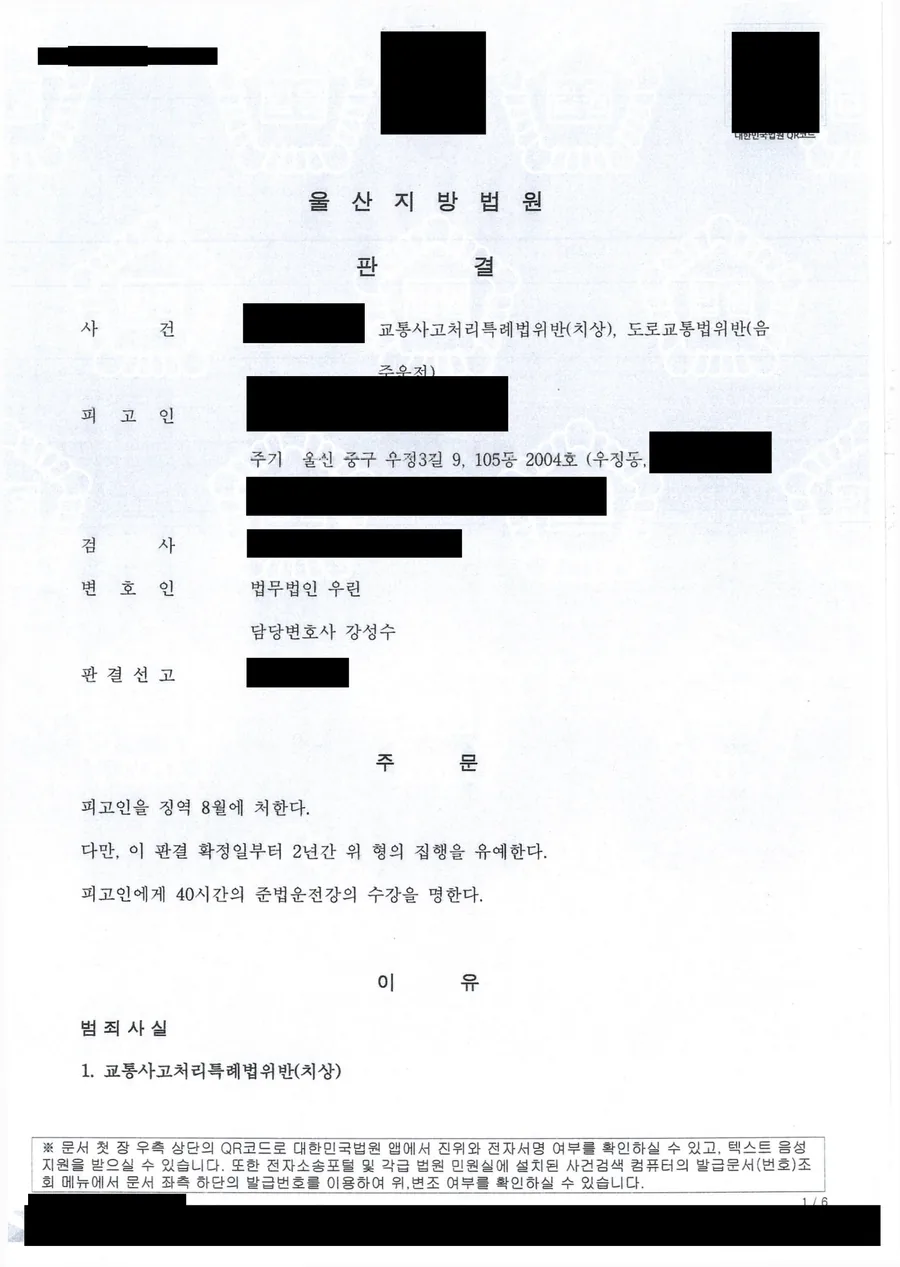
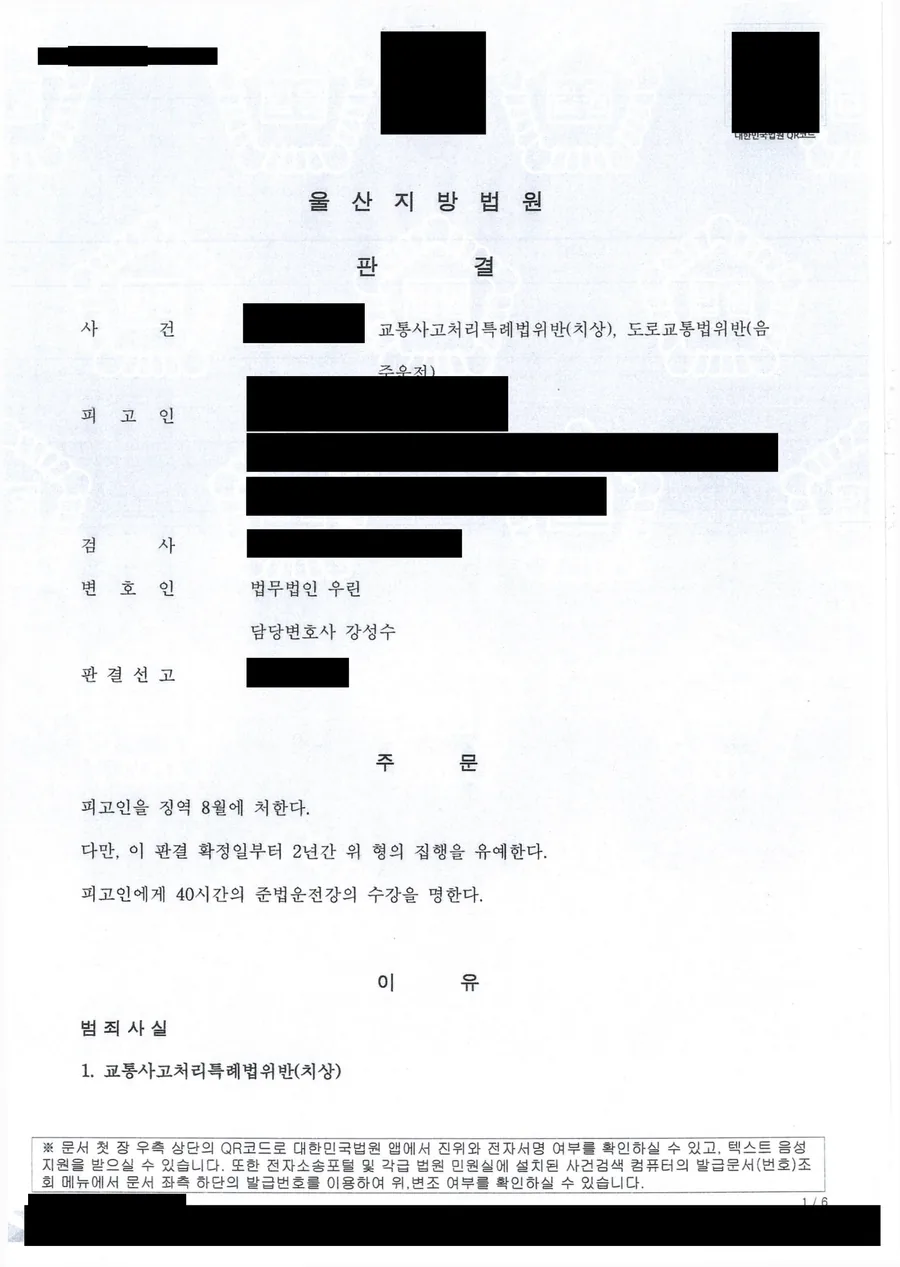
판결문 이미지 마스킹 보강, 원고 보강, 변호사 사진 최상단 배치
이미지
- 피고인 주거·등록기준지가 노출되던 문제 수정
  라벨만 있는 줄에서 오른쪽 값만 덮고 아랫줄로 이어가지 않던 버그
- OCR이 '주거'를 '주기'로 읽는 경우까지 라벨 인식
- 접수 도장의 수령일·이의기한 날짜를 오른쪽 여백까지 덮도록 확장

원고
- 소제목을 실제 검색 질문형으로 변경 (GEO)
- 각 소제목 첫 문장에 결론을 먼저 배치
- 교통사고처리 특례법 제3조, 도로교통법 제148조의2,
  특정경제범죄가중처벌법 제3조 등 근거 조문 명시
- 양형기준 유형·특별양형인자 설명 추가
- FAQ 항목 보강

레이아웃
- 본문 최상단에 변호사 사진, 그 아래 판결문 이미지 순으로 변경

Changed region(s): [[0.2489, 0.3386, 0.7467, 0.4002], [0.84, 0.3386, 0.8711, 0.3694]]

diff --git a/scripts/build-content.js b/scripts/build-content.js
@@ -624,8 +624,8 @@ function articlePage(item, type, all = []) {
         </section>
         <section class="article-wrap">
             <article class="article-body">
-                ${imageBlock}
                 ${consultImageBlock}
+                ${imageBlock}
                 ${lawyerBlock}
                 ${markdownToHtml(item.body)}
                 <p class="article-disclaimer">이 글은 일반적인 법률 정보 제공을 위한 자료이며, 개별 사건의 결과를 보장하지 않습니다. 구체적인 대응은 사실관계와 증거에 따라 달라질 수 있습니다.</p>

diff --git a/content/columns/dui-accident-injury-probation.md b/content/columns/dui-accident-injury-probation.md
@@ -1,155 +1,174 @@
 ---
 title: "울산음주운전변호사 음주 교통사고 16주 상해, 집행유예를 받은 사례"
-description: "혈중알코올농도 0.059%로 교차로에서 이륜차와 충돌해 피해자가 16주 진단을 받은 사건입니다. 구속 상태에서 시작했지만 피해 회복과 양형자료를 정리해 집행유예를 받은 성공사례입니다."
+description: "혈중알코올농도 0.059%로 교차로에서 이륜차와 충돌해 피해자가 16주 진단을 받은 사건입니다. 구속 상태에서 시작했지만 피해 회복과 양형자료를 정리해 징역 8월 집행유예 2년을 받은 성공사례입니다."
 category: "음주운전 칼럼"
 date: "2026-08-17"
 slug: "dui-accident-injury-probation"
 image: "assets/images/success/dui-accident-injury-probation-column.webp"
-imageAlt: "음주 교통사고 치상 집행유예 성공사례 판결문"
+imageAlt: "울산 음주 교통사고 치상 집행유예 판결문"
 consultImage: "assets/images/lawyer-portrait-gray.webp"
-consultImageAlt: "강성수 변호사 프로필 사진"
-keywords: ["울산 음주운전 변호사", "음주 교통사고", "교통사고처리특례법위반 치상", "음주운전 집행유예", "울산 형사전문변호사"]
-summary: "혈중알코올농도 0.059%, 피해자 16주 진단, 구속 상태라는 조건에서 집행유예를 받아 일상으로 돌아간 사례입니다."
+consultImageAlt: "법무법인 우린 강성수 변호사"
+keywords: ["울산 음주운전 변호사", "음주 교통사고", "교통사고처리특례법위반 치상", "음주운전 집행유예", "12대 중과실", "울산 형사전문변호사"]
+summary: "혈중알코올농도 0.059%, 피해자 16주 진단, 구속 상태에서 시작한 사건에서 징역 8월 집행유예 2년을 받아 일상으로 돌아간 사례입니다."
 ---
 
 :::summary
 **핵심 결과**
 
-음주운전은 사고가 나는 순간 완전히 다른 사건이 됩니다.
+음주운전은 사람이 다치는 순간 완전히 다른 사건이 됩니다.
 
-단순 음주운전이 아니라 교통사고처리특례법위반(치상)이 함께 붙기 때문입니다.
+단순 음주운전이 아니라 교통사고처리특례법위반(치상)이 함께 붙고, 두 죄가 경합범으로 묶이기 때문입니다.
 
-이번 사건에서 피해자는 16주 치료가 필요한 골절상을 입었습니다.
+이 사건에서 피해자는 16주 치료가 필요한 개방성 골절을 입었습니다.
 
 의뢰인은 이미 구속된 상태로 상담을 시작했습니다.
 
-법무법인 우린은 피해 회복과 재범 방지 구조를 함께 정리했고, 최종적으로 **징역 8월에 집행유예 2년**을 받아 의뢰인이 일상으로 돌아갔습니다.
+법무법인 우린은 피해 회복을 먼저 끝내고 양형기준상 감경요소를 구조적으로 정리했습니다.
+
+결과는 **징역 8월, 집행유예 2년**이었습니다.
 :::
 
 :::table
 구분 | 내용
-사건 분야 | 음주운전 + 교통사고 치상
-혈중알코올농도 | 0.059% (면허정지 수치)
-피해 정도 | 16주 치료가 필요한 골절
-사건 초기 상태 | 구속
-주요 대응 | 피해자 합의, 처벌불원서, 재범 방지 자료 정리
+사건 분야 | 음주운전 + 교통사고처리특례법위반(치상)
+혈중알코올농도 | 0.059% (면허정지 구간)
+피해 정도 | 16주 치료가 필요한 개방성 다발성 골절
+사건 초기 상태 | 구속, 약 2개월 구금
+결정적 대응 | 보험과 별개의 합의, 처벌불원 확보
 최종 결과 | **징역 8월 / 집행유예 2년 / 준법운전강의 40시간**
 :::
 
-## 사건 개요
+## 어떤 사건이었나
 
 야간이었습니다.
 
 의뢰인은 술을 마신 상태로 운전대를 잡았습니다.
 
-시내 교차로를 지나면서 속도를 줄이거나 일시정지하지 않았습니다.
+시내 교차로에 진입하면서 속도를 줄이지도, 일시정지하지도 않았습니다.
 
-그대로 직진하다가 다른 방향에서 진행하던 이륜차의 옆면을 들이받았습니다.
+그대로 직진하다가 다른 방향에서 진행하던 이륜차의 우측면을 승용차 앞부분으로 충격했습니다.
 
-이륜차 운전자는 다리에 개방성 골절을 입었습니다.
+이륜차 운전자는 아래다리에 개방성 다발성 골절을 입었습니다.
 
-진단만 16주가 나왔습니다.
+진단은 16주가 나왔습니다.
 
 측정된 혈중알코올농도는 0.059%였습니다.
 
 숫자만 보면 면허정지 구간입니다.
 
-하지만 이 사건에서 그 수치는 큰 의미가 없었습니다.
+그러나 이 사건에서 그 수치는 결정적인 변수가 아니었습니다.
 
 :::crisis
-**이 사건이 위험했던 이유**
+**실형 위험이 컸던 이유**
 
-- 음주운전에 교통사고 치상이 함께 붙었습니다.
+- 음주운전과 교통사고 치상이 경합범으로 묶여 처단형이 올라갔습니다.
 - 피해자 상해가 16주로 무거웠습니다.
-- 교차로에서 감속·일시정지 의무를 지키지 않은 과실이 명확했습니다.
-- 의뢰인은 이미 구속된 상태였습니다.
-- 구속 상태에서 재판을 받으면 그대로 실형으로 이어질 위험이 큽니다.
+- 교차로 감속·일시정지 의무 위반이라는 과실이 명확했습니다.
+- 의뢰인은 이미 구속되어 약 2개월간 구금된 상태였습니다.
+- 구속 상태로 선고를 받으면 그대로 실형으로 이어질 가능성이 큽니다.
 
 혈중알코올농도가 낮다는 사정만으로 방어할 수 있는 사건이 아니었습니다.
 :::
 
-## 음주 교통사고는 왜 수치보다 피해가 중요한가
+## 혈중알코올농도가 0.08% 미만이면 가볍게 끝나나요
 
-음주운전 사건에서 많은 분이 혈중알코올농도부터 물어봅니다.
+사고가 없었다면 그럴 수 있지만, 사람이 다쳤다면 수치와 무관하게 형사재판이 진행됩니다.
 
-수치가 낮으면 가볍게 끝나지 않겠느냐는 것입니다.
+음주운전만 있었다면 도로교통법 제148조의2 제3항 제3호가 적용되어 벌금형으로 정리되는 경우가 많습니다.
 
-사고가 없었다면 그 말이 맞습니다.
+그런데 사람이 다치면 교통사고처리 특례법 제3조 제1항이 함께 적용됩니다.
 
-그러나 사람이 다치면 판단 구조가 바뀝니다.
+이때 같은 조 제2항 단서에 열거된 이른바 12대 중과실에 음주운전이 들어 있습니다.
 
-교통사고처리특례법 제3조 제2항 단서는 음주운전 중 사고로 사람을 다치게 한 경우를 종합보험 가입이나 합의와 무관하게 처벌하는 항목으로 두고 있습니다.
+그래서 종합보험에 가입되어 있어도, 피해자와 합의했어도 공소가 제기됩니다.
 
-즉 보험에 들어 있어도 형사재판은 그대로 진행됩니다.
+이 사건에서도 0.059%라는 수치는 양형에서 유리한 사정으로만 작용했을 뿐, 재판 자체를 막지는 못했습니다.
 
 :::table
-법원이 실제로 보는 것 | 의미
-피해자의 상해 정도 | 죄책의 무게를 정하는 가장 큰 요소
-피해 회복 여부 | 합의와 처벌불원이 있었는지
-운전 경위 | 어떤 주의의무를 어떻게 위반했는지
-음주 수치와 운전 거리 | 위험 운전의 정도
-전과 | 반복성이 있는지
+사람이 다친 순간 달라지는 것 | 내용
+적용 법률 | 도로교통법에 더해 교통사고처리 특례법이 함께 적용됩니다
+보험 가입 효과 | 음주운전은 12대 중과실이라 종합보험에 가입했어도 공소를 막지 못합니다
+합의 효과 | 양형에는 반영되지만 공소 자체는 그대로 진행됩니다
+실무상 결과 | 단순 음주운전은 벌금형이 많지만, 상해 정도에 따라 실형까지 갈 수 있습니다
 :::
 
-==수치가 낮아도 피해가 크면 실형이 나옵니다. 반대로 피해 회복이 되면 수치가 있어도 집행유예가 가능합니다.==
+==수치는 입장권이고, 결과를 가르는 것은 피해 정도와 피해 회복입니다.==
+
+## 법원은 실제로 무엇을 보고 형을 정하나요
+
+양형기준의 교통범죄 유형 분류와 특별양형인자, 그리고 피해 회복 정도를 함께 봅니다.
+
+이 사건은 양형기준상 교통범죄 중 일반 교통사고 제1유형(교통사고 치상)에 해당했습니다.
+
+여기에 특별양형인자로 처벌불원이 감경요소로 반영되면서 감경영역이 적용됐습니다.
+
+음주운전죄는 별도로 음주·무면허운전 제2유형(혈중알코올농도 0.03% 이상 0.08% 미만)에 해당했습니다.
+
+두 죄가 경합범으로 묶이면 기본범죄 형량범위 상한에 경합범죄 상한의 2분의 1이 더해집니다.
+
+그래서 처단형 자체는 올라가지만, 감경요소가 붙으면 권고형 범위 안에서 집행유예가 가능한 구간이 생깁니다.
+
+:::table
+법원이 확인하는 것 | 이 사건에서의 판단
+피해자의 상해 정도 | 16주 골절, 죄책이 무겁다고 명시
+피해 회복 여부 | 보험 가입에 더해 별도 합의, 처벌불원
+운전 경위 | 교차로에서 감속·일시정지 의무 위반
+음주 수치와 운전 거리 | 0.059%, 약 1km 구간
+전과 | 형사처벌 전력 없음
+범행 후 정황 | 범행 인정, 구금 기간 중 반성
+:::
 
 ## 해결 전략
 
 :::strategy
-**1. 피해 회복을 가장 먼저 진행했습니다**
+**1. 보험과 합의를 분리해 접근했습니다**
 
-16주 진단이 나온 사건에서 가장 중요한 것은 피해자의 회복입니다.
+가장 흔한 오해가 여기서 나옵니다.
 
-종합보험 처리만으로는 부족합니다.
+종합보험으로 치료비가 처리되고 있으니 합의가 된 것 아니냐는 생각입니다.
 
-보험은 손해를 메우는 절차일 뿐, 형사사건에서 피해자의 용서를 대신하지 못합니다.
+보험은 손해를 전보하는 절차일 뿐, 형사절차에서 피해자의 처벌 의사를 대신하지 못합니다.
 
-보험 처리와 별개로 피해자를 직접 만나 피해 회복을 위한 합의를 진행했습니다.
+16주 진단이 나온 사건에서는 더욱 그렇습니다.
 
-그 결과 처벌을 원하지 않는다는 의사를 받아냈습니다.
+보험 처리와 별개로 피해자를 만나 피해 회복을 위한 합의를 진행했고, 처벌을 원하지 않는다는 의사를 서면으로 확보했습니다.
 
-양형기준에서 처벌불원은 감경요소로 반영됩니다.
+이 처벌불원이 양형기준상 감경요소로 그대로 반영됐습니다.
 :::
 
 :::strategy
-**2. 구속 상태를 그대로 두지 않았습니다**
+**2. 구금 기간을 방어 자료로 전환했습니다**
 
-구속 상태에서 재판을 받으면 재판부가 사안을 무겁게 보고 있다는 신호로 읽히기 쉽습니다.
+구속 상태는 그 자체로 불리합니다.
 
-의뢰인이 구금 기간 동안 어떤 변화를 보였는지를 자료로 정리했습니다.
+재판부가 사안을 무겁게 보고 있다는 신호이기 때문입니다.
 
-반성의 내용, 재범하지 않겠다는 구체적인 계획, 사회로 복귀했을 때의 생활 기반을 함께 제출했습니다.
+그래서 구금 기간을 그냥 흘려보내지 않았습니다.
 
-말로 하는 반성과 자료로 보여주는 반성은 무게가 다릅니다.
+약 2개월의 구금 기간 동안 의뢰인이 무엇을 인식하고 무엇을 바꾸기로 했는지를 구체적으로 정리했습니다.
+
+판결문에도 약 2개월간의 구금생활을 통하여 자신의 잘못을 반성하면서 재범하지 않을 것을 다짐하고 있다는 취지가 유리한 정상으로 기재됐습니다.
 :::
 
 :::strategy
-**3. 양형기준 안에서 집행유예가 가능한 구조를 만들었습니다**
+**3. 양형기준 안에서 결론을 제시했습니다**
 
-이 사건은 교통사고 치상과 음주운전이 경합범으로 묶입니다.
+선처를 구하는 변론과 결론을 제시하는 변론은 다릅니다.
 
-두 죄의 형량범위를 합산하면 처단형이 올라갑니다.
+이 사건이 어느 유형에 해당하고, 어떤 특별양형인자가 적용되며, 그 결과 권고형 범위가 어디까지인지를 먼저 정리했습니다.
 
-따라서 막연히 선처를 구하는 방식으로는 부족했습니다.
+그 범위 안에서 집행유예가 타당한 이유를 사실관계로 뒷받침했습니다.
 
-양형기준상 감경영역에 해당한다는 점, 처벌불원과 초범이라는 요소가 어떻게 작용하는지를 정리해 제출했습니다.
-:::
-
-:::table
-대응 항목 | 준비한 내용
-피해 회복 | 보험 처리와 별도 합의, 처벌불원서 확보
-양형자료 | 형사처벌 전력 없음, 구금 기간 중 반성 내용 정리
-재범 방지 | 음주 습관 개선 계획, 생활 관리 방안
-법리 정리 | 양형기준 감경영역 해당 근거 제시
+재판부가 별도로 계산할 필요 없이 결론까지 따라올 수 있는 구조를 만든 것입니다.
 :::
 
 ## 결과
 
 법원은 죄책이 무겁다는 점을 분명히 했습니다.
 
-술에 취한 상태로 사고를 내 피해자에게 16주 치료가 필요한 상해를 입혔다는 점을 불리한 정상으로 봤습니다.
+술에 취한 상태에서 사고를 내 피해자에게 16주 치료가 필요한 상해를 입혔다는 점을 불리한 정상으로 적시했습니다.
 
-다만 형사처벌 전력이 없다는 점, 범행을 모두 인정하고 반성하고 있다는 점, 보험 가입과 별도로 피해 회복을 위해 노력했다는 점을 함께 고려했습니다.
+동시에 형사처벌 전력이 없다는 점, 범행을 모두 인정하고 반성하고 있다는 점, 차량이 종합보험에 가입되어 있고 이와 별도로 피해 회복을 위해 노력해 원만히 합의한 점을 유리한 정상으로 판단했습니다.
 
 :::verdict
 **최종 결과**
@@ -158,46 +177,48 @@ summary: "혈중알코올농도 0.059%, 피해자 16주 진단, 구속 상태라
 
 여기에 준법운전강의 40시간 수강명령이 함께 내려졌습니다.
 
-의뢰인은 구속 상태에서 벗어나 일상으로 돌아갔습니다.
+의뢰인은 구속 상태에서 벗어나 직장과 일상으로 돌아갔습니다.
 :::
 
-## 사고가 난 뒤에 가장 먼저 해야 할 일
+## 사고 직후 순서를 어떻게 잡아야 하나요
 
-음주 상태에서 사고를 냈다면 순서가 중요합니다.
+피해자 상태 확인, 피해 회복, 형사 대응, 행정 대응 순서입니다.
 
-가장 먼저 할 일은 피해자의 상태를 확인하는 것입니다.
+이 순서가 뒤집히면 되돌리기 어렵습니다.
 
-그다음이 피해 회복입니다.
+특히 합의는 시점이 중요합니다.
 
-보험사에 맡겨두고 형사절차를 따로 생각하는 분들이 많습니다.
+수사 단계에서 정리된 합의와 선고를 앞두고 급하게 한 합의는 재판부가 받아들이는 무게가 다릅니다.
 
-그런데 형사재판에서는 보험 처리 사실보다 피해자가 처벌을 원하는지가 훨씬 크게 작용합니다.
+피해자가 치료 중일 때는 합의 자체가 어려운 경우도 많습니다.
 
-진단 주수가 길게 나올수록 이 차이는 더 벌어집니다.
+이때는 형사공탁 등 다른 방법을 검토해야 하는데, 이것도 시기를 놓치면 효과가 떨어집니다.
 
-합의는 시기도 중요합니다.
+행정절차도 별도로 굴러갑니다.
 
-수사 단계에서 정리된 합의와 선고 직전에 급하게 한 합의는 무게가 다릅니다.
+형사재판에서 집행유예를 받아도 면허 취소나 정지 처분은 그대로 진행되고 결격기간이 적용됩니다.
+
+이의신청과 행정심판에는 각각 기한이 있어 형사 대응에만 집중하다 보면 그냥 지나갑니다.
 
 ## 자주 묻는 질문
 
 :::table
 질문 | 답변
-혈중알코올농도가 0.08% 미만이면 가볍게 끝나나요? | 사고가 없으면 그럴 수 있지만 사람이 다치면 수치와 무관하게 형사재판이 진행됩니다.
-종합보험에 가입돼 있으면 처벌받지 않나요? | 음주운전 중 사고는 교통사고처리특례법의 예외에 해당해 보험 가입과 무관하게 처벌됩니다.
-합의하면 무조건 집행유예인가요? | 합의는 강력한 감경요소지만 상해 정도와 전과에 따라 결과가 달라집니다.
-구속된 상태여도 집행유예가 가능한가요? | 가능합니다. 피해 회복과 양형자료가 정리되면 불구속 판결이 나오는 경우가 있습니다.
-피해자가 합의를 거부하면 어떻게 하나요? | 형사공탁 등 다른 방법이 있으므로 절차와 시기를 먼저 확인해야 합니다.
-면허는 어떻게 되나요? | 형사처벌과 별개로 행정처분이 진행되며 결격기간이 적용됩니다.
+혈중알코올농도 0.08% 미만이면 처벌이 가벼운가요? | 사고가 없으면 그렇지만, 사람이 다치면 교통사고처리 특례법이 함께 적용되어 수치와 무관하게 형사재판이 진행됩니다.
+종합보험에 가입했으면 처벌받지 않나요? | 음주운전은 교통사고처리 특례법 제3조 제2항 단서의 12대 중과실에 해당해 보험 가입과 무관하게 공소가 제기됩니다.
+합의하면 무조건 집행유예인가요? | 처벌불원은 양형기준상 감경요소로 반영되지만, 상해 정도와 전과에 따라 결과가 달라집니다.
+구속된 상태에서도 집행유예가 가능한가요? | 가능합니다. 이 사건도 약 2개월 구금 상태에서 시작해 집행유예로 마무리됐습니다.
+피해자가 합의를 거부하면 어떻게 하나요? | 형사공탁 등 대안이 있으므로 시기와 절차를 먼저 확인해야 합니다.
+면허는 어떻게 되나요? | 형사처벌과 별개로 행정처분이 진행되며 결격기간이 적용됩니다. 이의신청과 행정심판에는 각각 기한이 있습니다.
 :::
 
 ## 결론
 
 음주 교통사고는 수치 싸움이 아니라 피해 회복 싸움입니다.
 
-이 사건도 혈중알코올농도만 보면 낮은 편이었지만, 피해자의 상해가 무거워 실형 가능성이 충분한 사건이었습니다.
+이 사건도 혈중알코올농도만 보면 낮은 편이었지만, 피해자 상해가 16주였기 때문에 실형 가능성이 충분했습니다.
 
-피해 회복을 제때 진행하고 양형자료를 구조적으로 정리했기 때문에 결과가 달라졌습니다.
+보험과 합의를 분리해 처벌불원을 확보하고, 양형기준 구조 안에서 결론까지 제시했기 때문에 결과가 달라졌습니다.
 
 사고 직후 며칠이 사건 전체를 좌우합니다.
 
@@ -206,11 +227,11 @@ summary: "혈중알코올농도 0.059%, 피해자 16주 진단, 구속 상태라
 :::cta
 **사무장·상담실장 없이 변호사가 직접 상담합니다**
 
-음주 교통사고는 형사절차와 행정절차, 피해자 합의가 동시에 진행됩니다.
+음주 교통사고는 형사절차, 행정절차, 피해자 합의가 동시에 굴러갑니다.
 
-순서를 잘못 잡으면 되돌리기 어렵습니다.
+순서를 잘못 잡으면 되돌릴 수 없습니다.
 
-법무법인 우린은 강성수 변호사가 직접 상담하고, 사건 기록 검토부터 합의 진행, 양형자료 준비, 법정 변론까지 직접 맡습니다.
+법무법인 우린은 강성수 변호사가 직접 상담하고, 기록 검토부터 합의 진행과 양형자료 준비, 법정 변론까지 직접 맡습니다.
 
-피해자 진단 주수가 길게 나왔거나 구속이 걱정되는 상황이라면 먼저 사건 기록과 현재 단계를 정확히 확인해야 합니다.
+피해자 진단 주수가 길게 나왔거나 구속이 걱정되는 상황이라면 지금 사건이 어느 단계에 있는지부터 확인해야 합니다.
 :::
